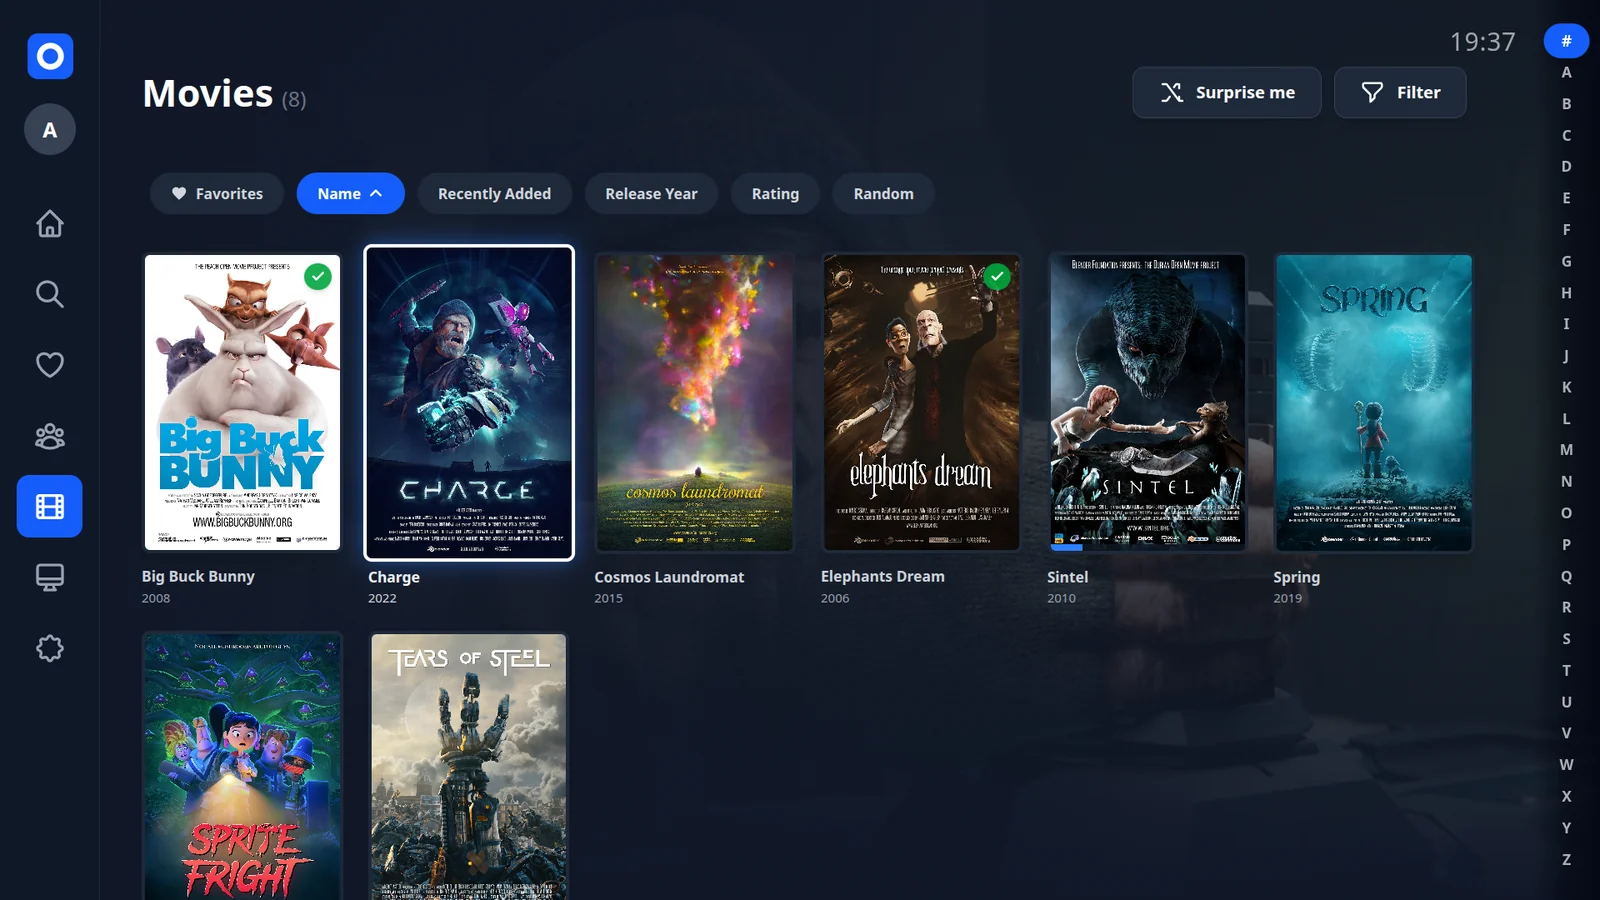
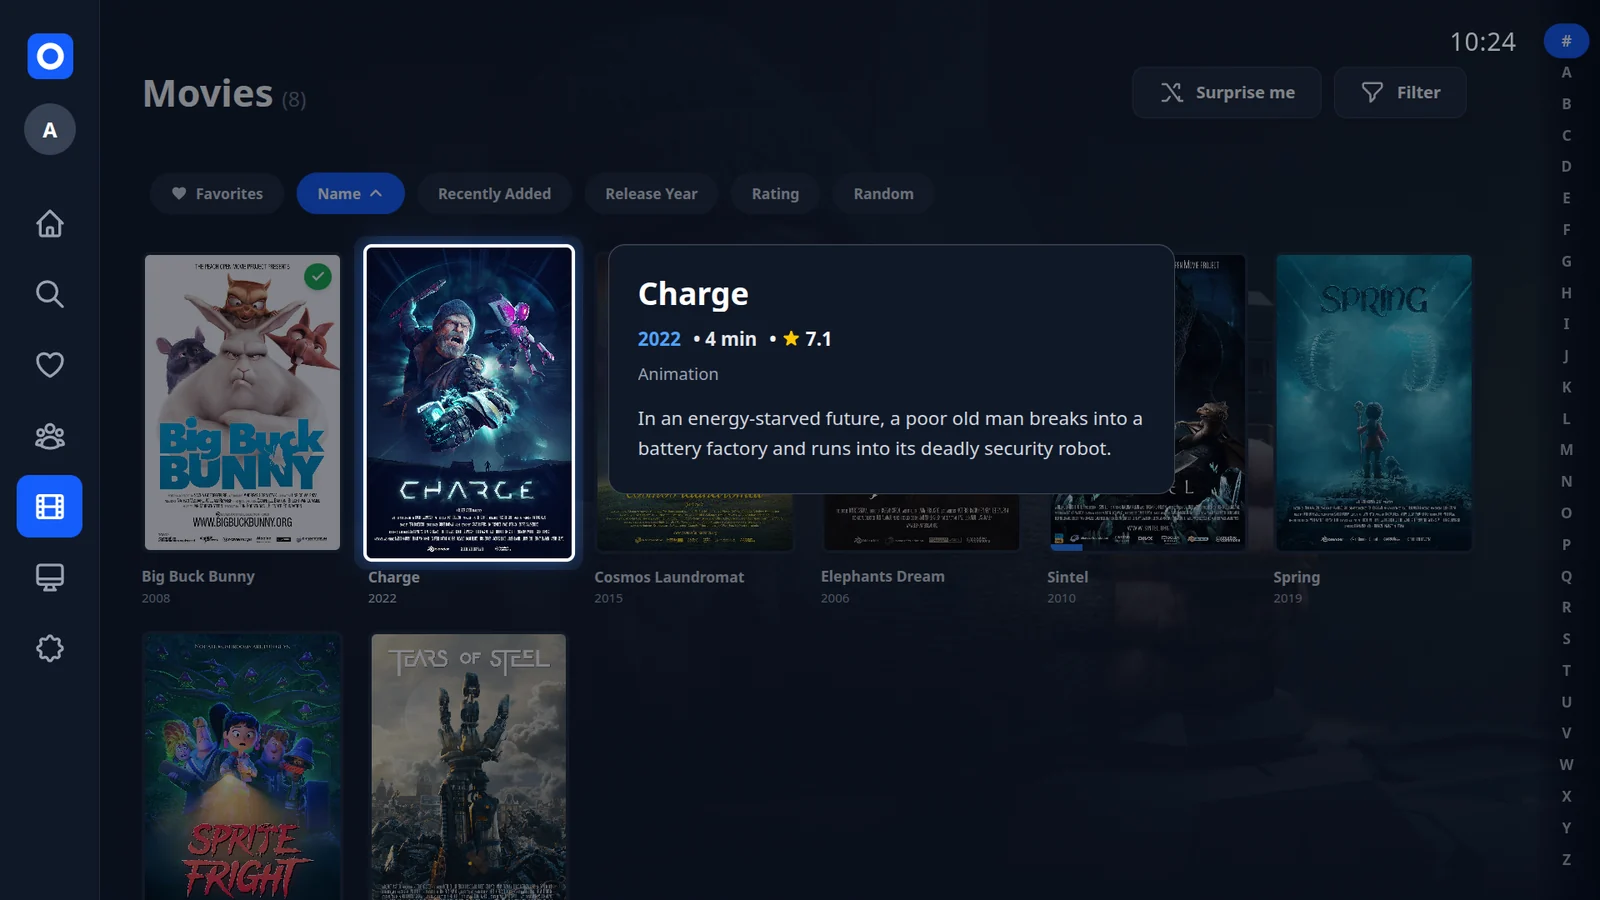
Info preview on by default
The library's info preview is now switched on by default: after two seconds on a poster its rating, genres and plot appear beside it, and any key closes it. It can be turned off under Settings > Content > Library. The README mentions it and its library screenshot now shows the box.

diff --git a/src/App.svelte b/src/App.svelte
@@ -224,7 +224,7 @@
   // existing profiles (their stored prefs are spread over the OTHER copy) — that paste-twice trap
   // fired once already (theme music). Functions, not shared literals: navOrder/navHidden/navIcons
   // must be fresh references on every call.
-  const defaultDisplaySettings = () => ({ clock: true, hero: true, episodeCount: true, letterBar: true, libraries: true, history: true, nextUp: true, watchlist: true, recommendations: true, latest: true, collections: true, sharedSuggestions: true, backdropPreview: true, infoPreview: false, dashboardBackdrop: true, spoilerProtection: true, detailsBackdrop: true, detailsLogo: false, showChapters: true, clockFormat: 'auto', uiSize: 100, theme: 'blue', uiFont: 'system', showLogo: true, recommendationRows: 1, homeOrder: [], seekBack: 10, seekForward: 30, navOrder: [], navHidden: [], navIcons: {} });
+  const defaultDisplaySettings = () => ({ clock: true, hero: true, episodeCount: true, letterBar: true, libraries: true, history: true, nextUp: true, watchlist: true, recommendations: true, latest: true, collections: true, sharedSuggestions: true, backdropPreview: true, infoPreview: true, dashboardBackdrop: true, spoilerProtection: true, detailsBackdrop: true, detailsLogo: false, showChapters: true, clockFormat: 'auto', uiSize: 100, theme: 'blue', uiFont: 'system', showLogo: true, recommendationRows: 1, homeOrder: [], seekBack: 10, seekForward: 30, navOrder: [], navHidden: [], navIcons: {} });
   const defaultPlaybackPrefs   = () => ({ audioLanguage: 'default', subtitleLanguage: 'default', subtitleSmart: false, rememberAudioTrack: true, rememberSubtitleTrack: true, autoSkipIntro: false, autoSkipRecap: false, autoSkipCredits: false, subtitleSize: 0, subtitlePosition: 7, subtitleColor: 'white', subtitleEdge: 'shadow', subtitleBackground: 'none', subtitleFont: 'system', autoPlayNext: true, burnSubtitles: false, pgsRendering: true, assRendering: true, stillWatching: true, stillWatchingEpisodes: 3, showPlaybackInfo: false, sleepButton: false, trickplay: true, themeMusic: false, themeMusicScope: 'both', themeMusicVolume: 40, remoteDigitSeek: true, remoteChannelZap: true, remoteColorRed: 'off', remoteColorGreen: 'off', remoteColorYellow: 'off', remoteColorBlue: 'off' });
   let displaySettings = $state(defaultDisplaySettings());
 

diff --git a/src/components/Library.svelte b/src/components/Library.svelte
@@ -100,7 +100,7 @@
     clearTimer = setTimeout(() => { previewBackdrop = ''; }, 150);
   }
 
-  // ── Info preview (opt-in, CODE-HEALTH §124) ─────────────────
+  // ── Info preview (on by default, CODE-HEALTH §124) ──────────
   // Two seconds at rest on a card: rating, genres and plot in a box beside it, the rest of the library dimmed — the
   // card stays bright. A key before the two seconds are up starts them again, so it never shows while a key is held —
   // not even one that moves nothing, like ▼ in the last row. Once it is open, ONE calm arrow step takes it along to
@@ -1009,7 +1009,7 @@
     {/if}
   </div>
 
-  <!-- Info preview (opt-in, §124): the dim is ONE element over the focused poster whose spread shadow covers the rest
+  <!-- Info preview (§124): the dim is ONE element over the focused poster whose spread shadow covers the rest
        (no blur, painted once); the box beside the card, OPAQUE (at 95 % the posters below showed through and it read as
        tinted glass, not a card on top), a crisp edge and a 1 px light line on top — no blur, no accent glow beside the
        focused card's. Both ignore the pointer; z-20 over the grid and the A–Z bar. -->

diff --git a/src/components/Settings.svelte b/src/components/Settings.svelte
@@ -701,7 +701,7 @@
     { key: 'episodeCount',    label: i18n.t.displayEpisodeCount },
     { key: 'letterBar',       label: i18n.t.displayLetterBar },
     { key: 'backdropPreview', label: i18n.t.displayBackdropPreview },
-    { key: 'infoPreview',     label: i18n.t.displayInfoPreview, desc: i18n.t.displayInfoPreviewDesc },   // opt-in, §124
+    { key: 'infoPreview',     label: i18n.t.displayInfoPreview, desc: i18n.t.displayInfoPreviewDesc },   // on by default, §124
   ]);
   let detailToggles = $derived([
     { key: 'detailsBackdrop',   label: i18n.t.displayDetailsBackdrop },

diff --git a/README.md b/README.md
@@ -36,7 +36,7 @@ OcenFin plays your movies and shows as they are: Direct Play with Dolby Vision a
 **Finding something to watch**
 
 - A home screen with Continue Watching, Next Up, recent additions, “Because you watched …”, collections and your watchlist, in the order you choose.
-- Libraries with an A–Z jump, filters for genre and audio or subtitle language, sorting and “Surprise me”.
+- Libraries with an A–Z jump, filters for genre and audio or subtitle language, sorting and “Surprise me”; stop on a poster for a moment and its rating and plot appear beside it.
 - Search across titles and people; title pages with cast, similar titles and the collections a title belongs to.
 - Spoiler protection blurs the pictures of episodes you have not seen yet.
 
@@ -64,7 +64,7 @@ OcenFin talks to your Jellyfin server and nothing else: no tracking, no analytic
 <table>
   <tr>
     <td width="50%"><img src="docs/screenshots/rows.webp" alt="Home screen rows"><br><sub><b>Home</b> — what to watch next, and suggestions based on what you watched</sub></td>
-    <td width="50%"><img src="docs/screenshots/library.webp" alt="Library"><br><sub><b>Library</b> — posters, A–Z jump, filters and sorting</sub></td>
+    <td width="50%"><img src="docs/screenshots/library.webp" alt="Library"><br><sub><b>Library</b> — rating and plot at a glance, A–Z jump, filters and sorting</sub></td>
   </tr>
   <tr>
     <td><img src="docs/screenshots/details.webp" alt="Title page"><br><sub><b>Title page</b> — picture and sound at a glance, audio and subtitle choice</sub></td>

diff --git a/CHANGELOG.md b/CHANGELOG.md
@@ -7,8 +7,8 @@ Notable changes to OcenFin. Versions are release dates (`YYYY.MM.DD`) and match
 
 ### Added
 
-- **Info preview in the library.** Optional: two seconds on a title show its rating, genres and plot next to the
-  poster, and single steps with the arrows then take the box along from title to title.
+- **Info preview in the library.** Two seconds on a title show its rating, genres and plot next to the poster, and
+  single steps with the arrows then take the box along from title to title; it can be switched off in the settings.
 
 ### Fixed
 
